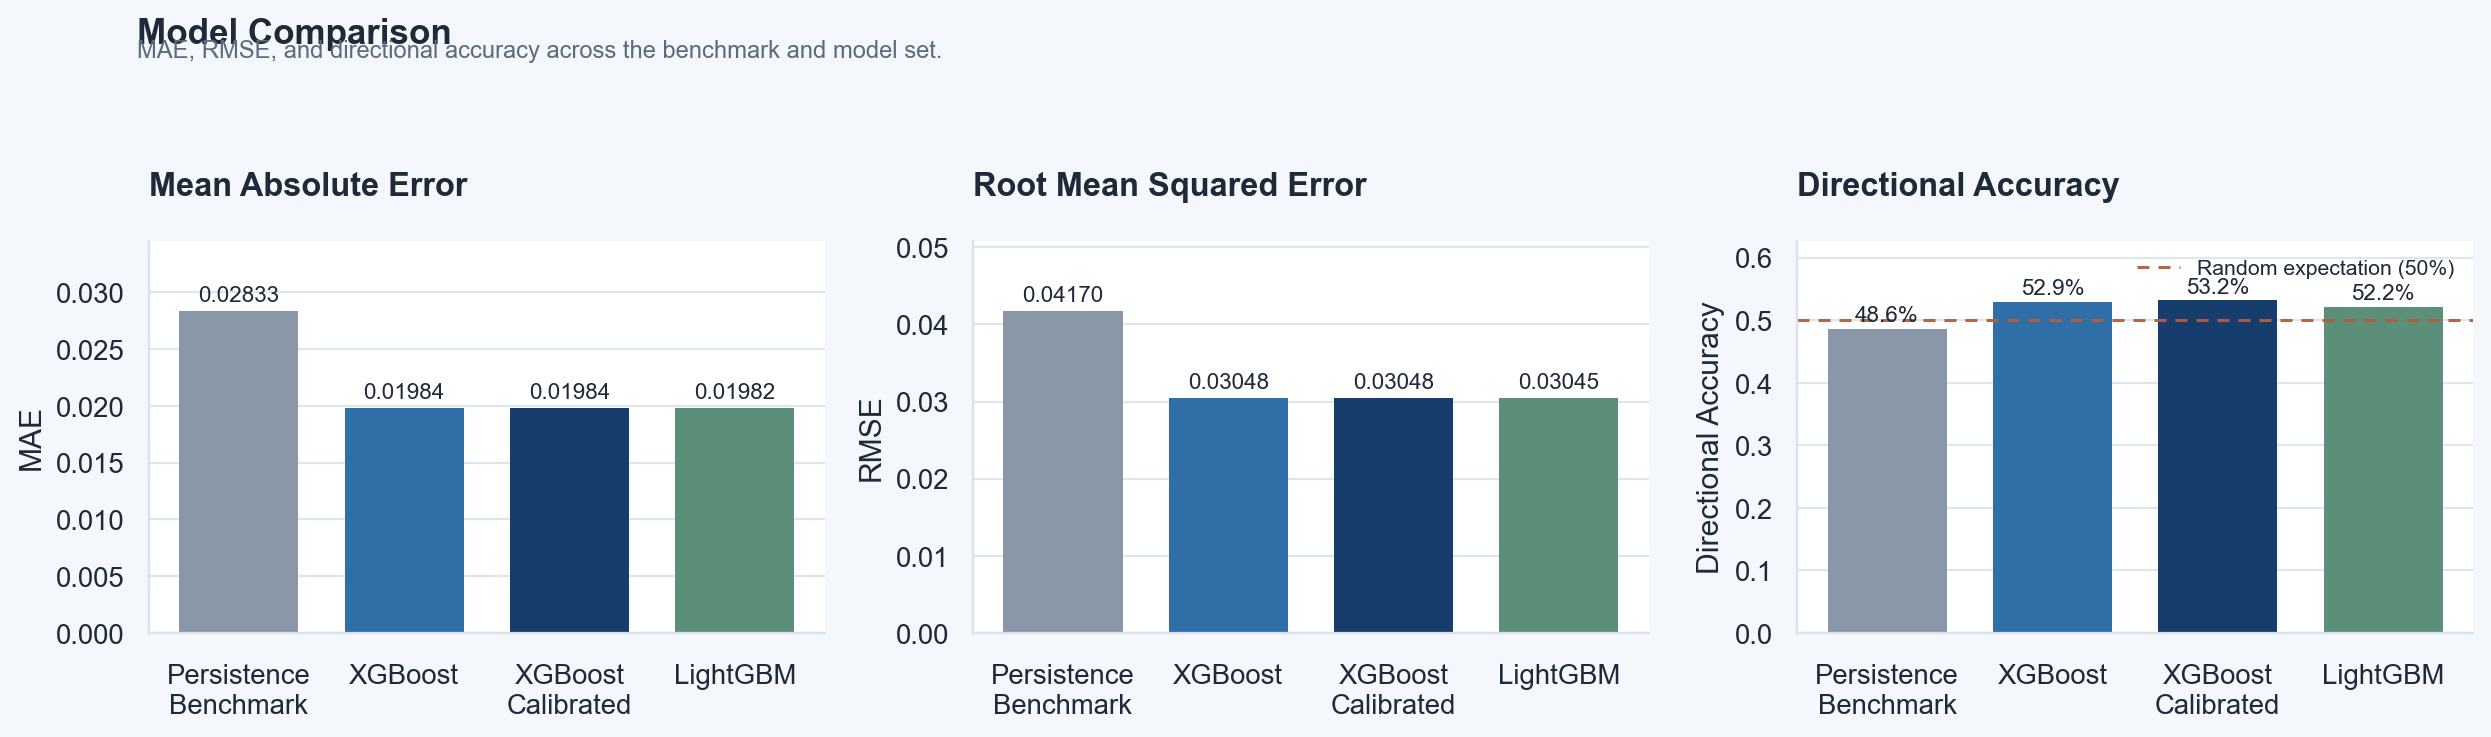
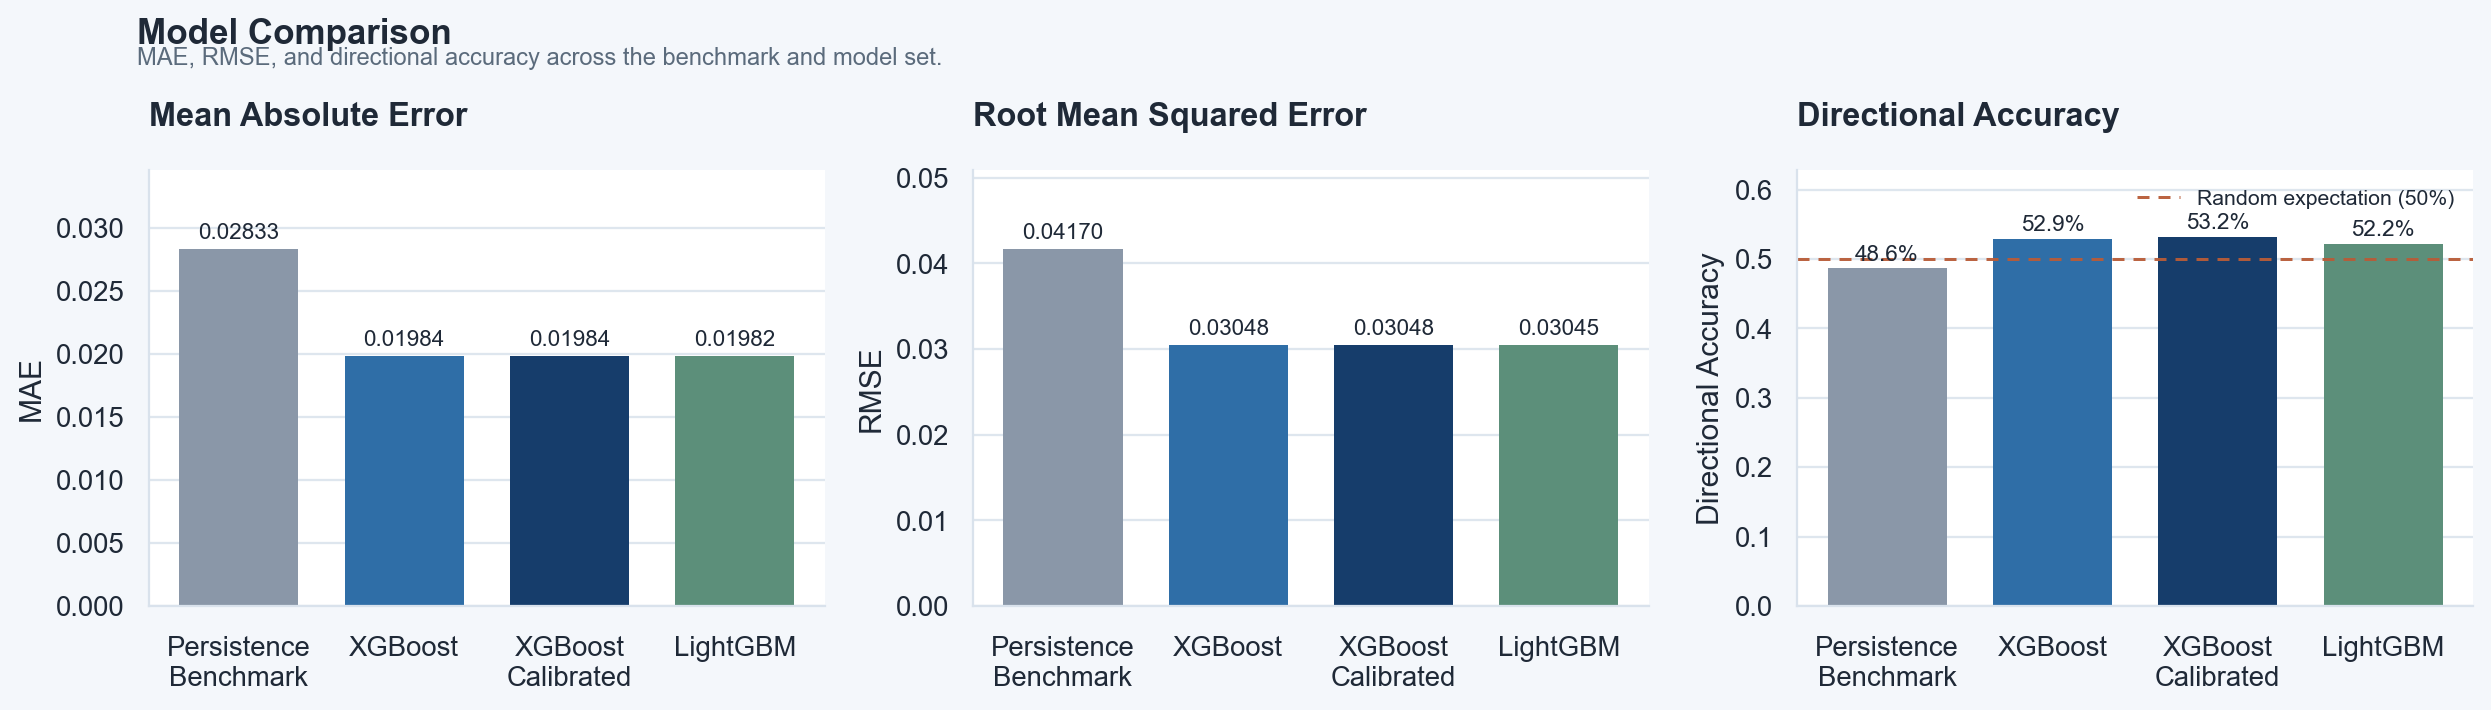
Fix figure heading spacing

diff --git a/src/visualiser.py b/src/visualiser.py
@@ -39,6 +39,7 @@ from src.plot_style import (
     SENTIMENT_FILL,
     XGBOOST,
     add_reference_line,
+    add_figure_heading,
     add_title,
     apply_chart_style,
     apply_plotly_layout,
@@ -143,9 +144,8 @@ class Visualiser:
             ax.set_title(ticker, loc="left", fontsize=10.5, fontweight="bold", pad=8)
             ax.legend(frameon=False, fontsize=8.5, loc="upper right")
 
-        fig.suptitle("Reddit Sentiment Time Series by Ticker", x=0.06, y=0.995, ha="left", fontsize=14, fontweight="bold")
-        fig.text(0.06, 0.968, "Daily ticker sentiment with smoothed VADER scores.", ha="left", fontsize=9.5, color="#5B6B7C")
-        fig.tight_layout(rect=[0, 0, 1, 0.95])
+        add_figure_heading(fig, "Reddit Sentiment Time Series by Ticker", "Daily ticker sentiment with smoothed VADER scores.")
+        fig.tight_layout(rect=[0, 0, 1, 0.91])
         self._save(fig, "sentiment_timeseries")
 
     # ── 3. Model comparison ───────────────────────────────────────────────────
@@ -190,16 +190,8 @@ class Visualiser:
                 ax.set_ylim(0.0, max(vals) * 1.22)
             ax.tick_params(axis="x", rotation=0, pad=6)
 
-        fig.suptitle("Model Comparison", x=0.06, y=1.02, ha="left", fontsize=14, fontweight="bold")
-        fig.text(
-            0.06,
-            0.965,
-            "MAE, RMSE, and directional accuracy across the benchmark and model set.",
-            ha="left",
-            fontsize=9.5,
-            color="#5B6B7C",
-        )
-        fig.tight_layout(rect=[0, 0, 1, 0.94])
+        add_figure_heading(fig, "Model Comparison", "MAE, RMSE, and directional accuracy across the benchmark and model set.")
+        fig.tight_layout(rect=[0, 0, 1, 0.91])
         self._save(fig, "model_comparison")
 
     # ── 4. Feature importance ─────────────────────────────────────────────────
@@ -223,8 +215,8 @@ class Visualiser:
             add_title(ax, f"{model_name.capitalize()} Top {top_n} Features")
             ax.set_xlabel("Feature Importance")
 
-        fig.suptitle("Feature Importance Comparison", x=0.06, y=1.01, ha="left", fontsize=14, fontweight="bold")
-        fig.tight_layout(rect=[0, 0, 1, 0.97])
+        add_figure_heading(fig, "Feature Importance Comparison")
+        fig.tight_layout(rect=[0, 0, 1, 0.94])
         self._save(fig, "feature_importance")
 
     # ── 5. Predicted vs actual scatter ────────────────────────────────────────
@@ -269,8 +261,8 @@ class Visualiser:
             add_title(ax, model_name)
             ax.legend(frameon=False, fontsize=8.5, loc="upper left")
 
-        fig.suptitle("Predicted vs Actual Next-Day Returns", x=0.06, y=1.01, ha="left", fontsize=14, fontweight="bold")
-        fig.tight_layout(rect=[0, 0, 1, 0.97])
+        add_figure_heading(fig, "Predicted vs Actual Next-Day Returns")
+        fig.tight_layout(rect=[0, 0, 1, 0.94])
         self._save(fig, "predictions_scatter")
 
     # ── 6. Interactive Plotly: sentiment over time ────────────────────────────

diff --git a/src/plot_style.py b/src/plot_style.py
@@ -99,6 +99,29 @@ def add_title(ax: plt.Axes, title: str, subtitle: str | None = None) -> None:
         )
 
 
+def add_figure_heading(fig: plt.Figure, title: str, subtitle: str | None = None, *, x: float = 0.06) -> None:
+    fig.text(
+        x,
+        0.982,
+        title,
+        ha="left",
+        va="top",
+        fontsize=14,
+        fontweight="bold",
+        color=TEXT,
+    )
+    if subtitle:
+        fig.text(
+            x,
+            0.942,
+            subtitle,
+            ha="left",
+            va="top",
+            fontsize=9.5,
+            color=MUTED,
+        )
+
+
 def add_reference_line(ax: plt.Axes, y: float, label: str | None = None) -> None:
     ax.axhline(y, color=REFERENCE, linestyle=(0, (4, 3)), linewidth=1.2, alpha=0.95, label=label)
 
